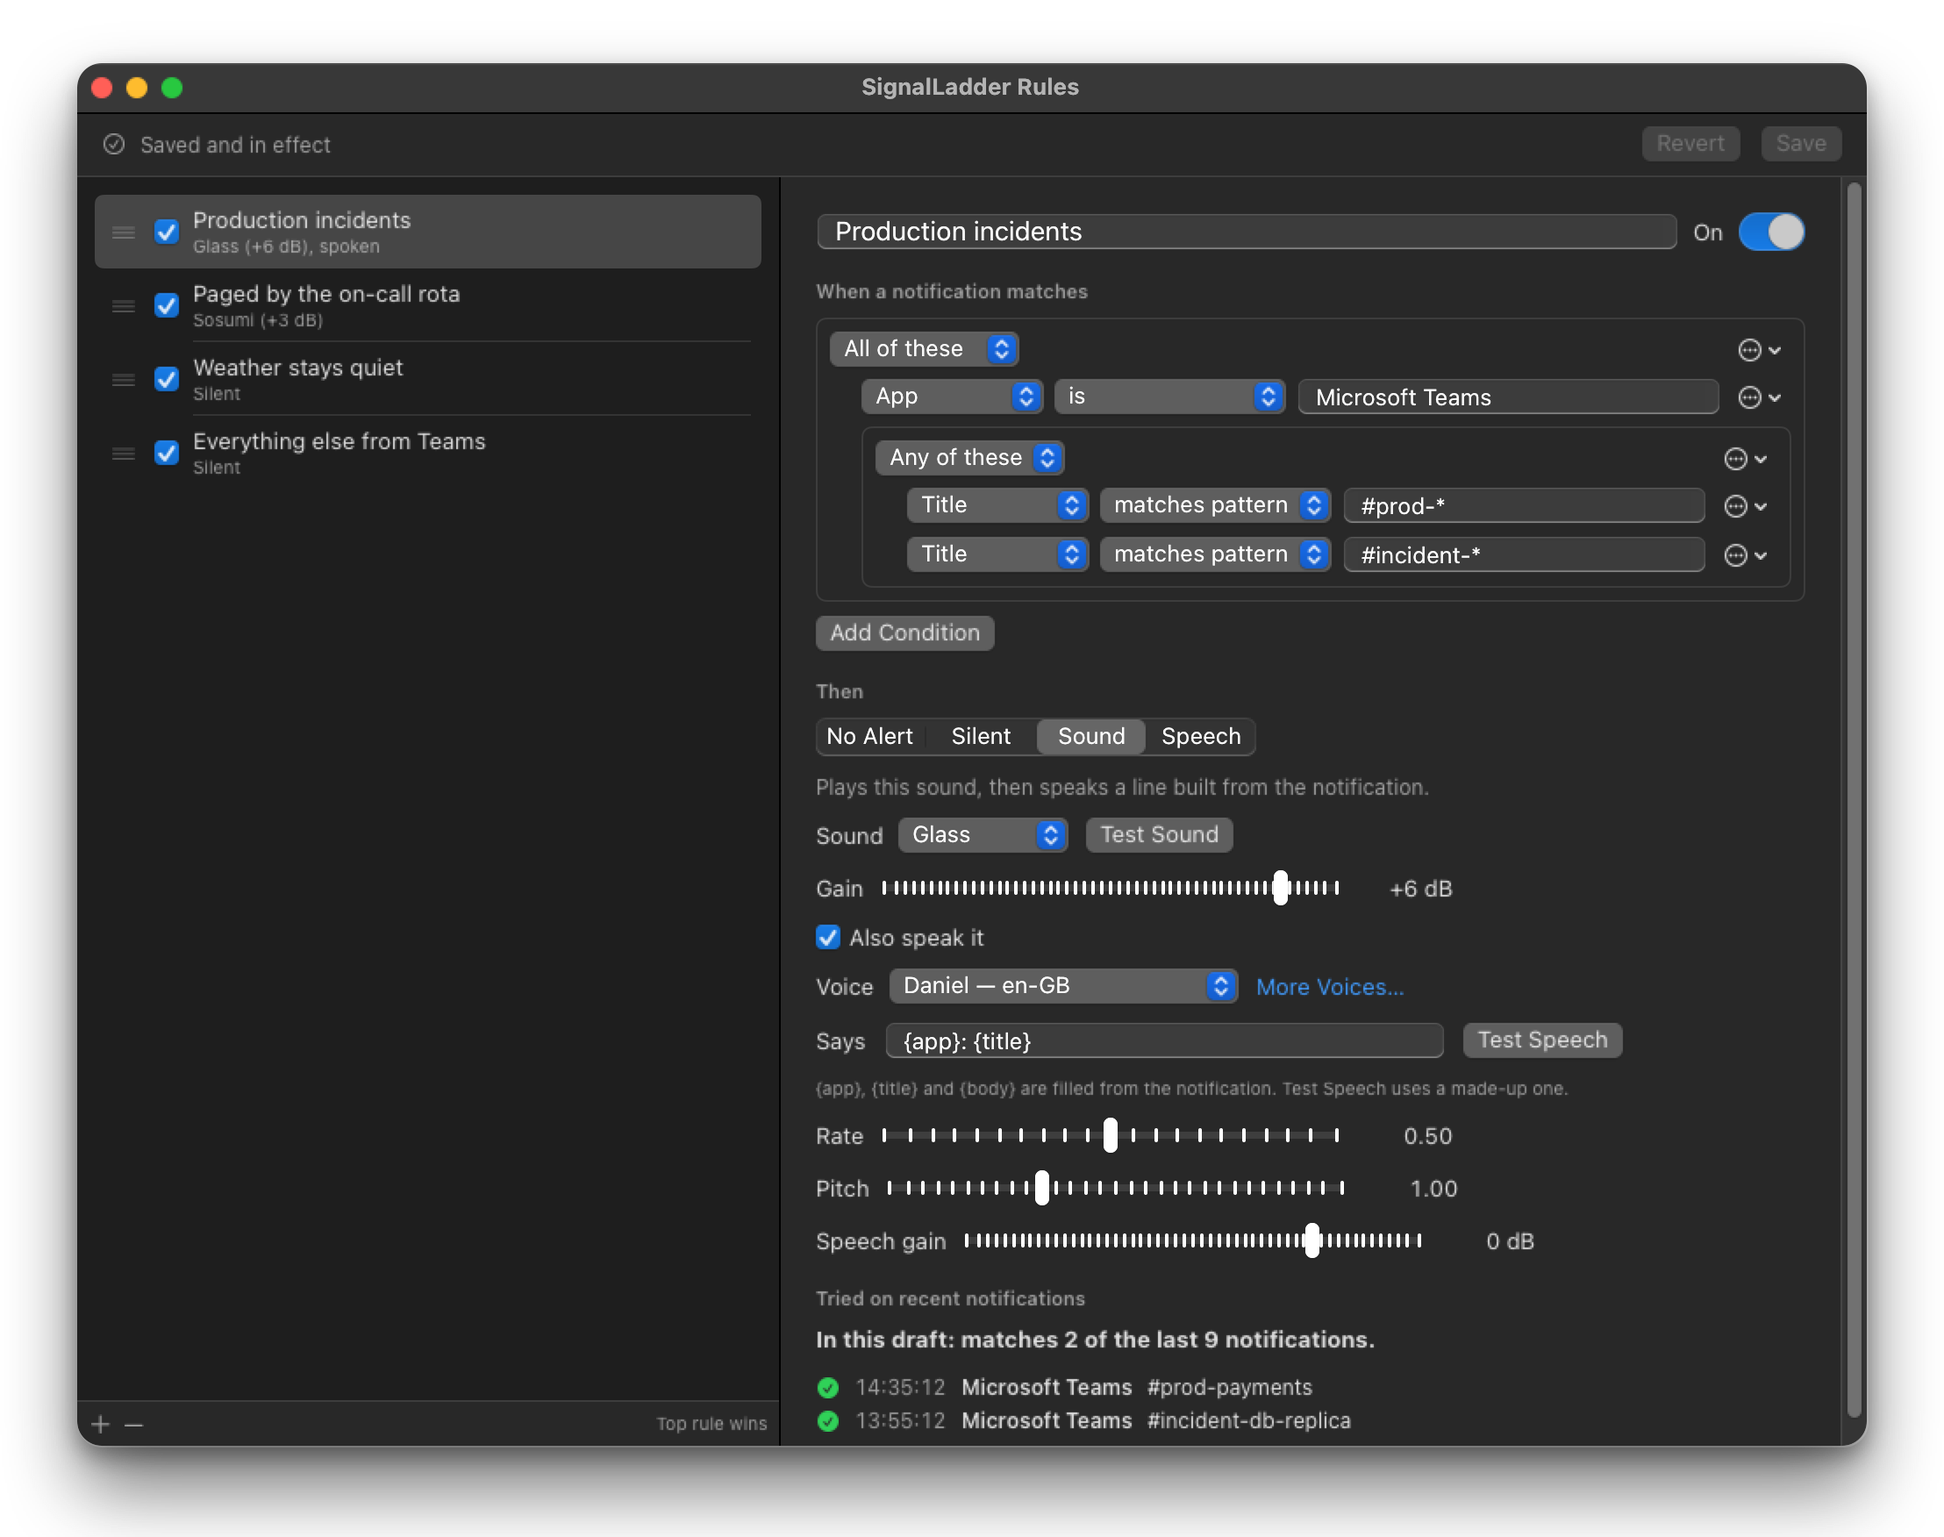
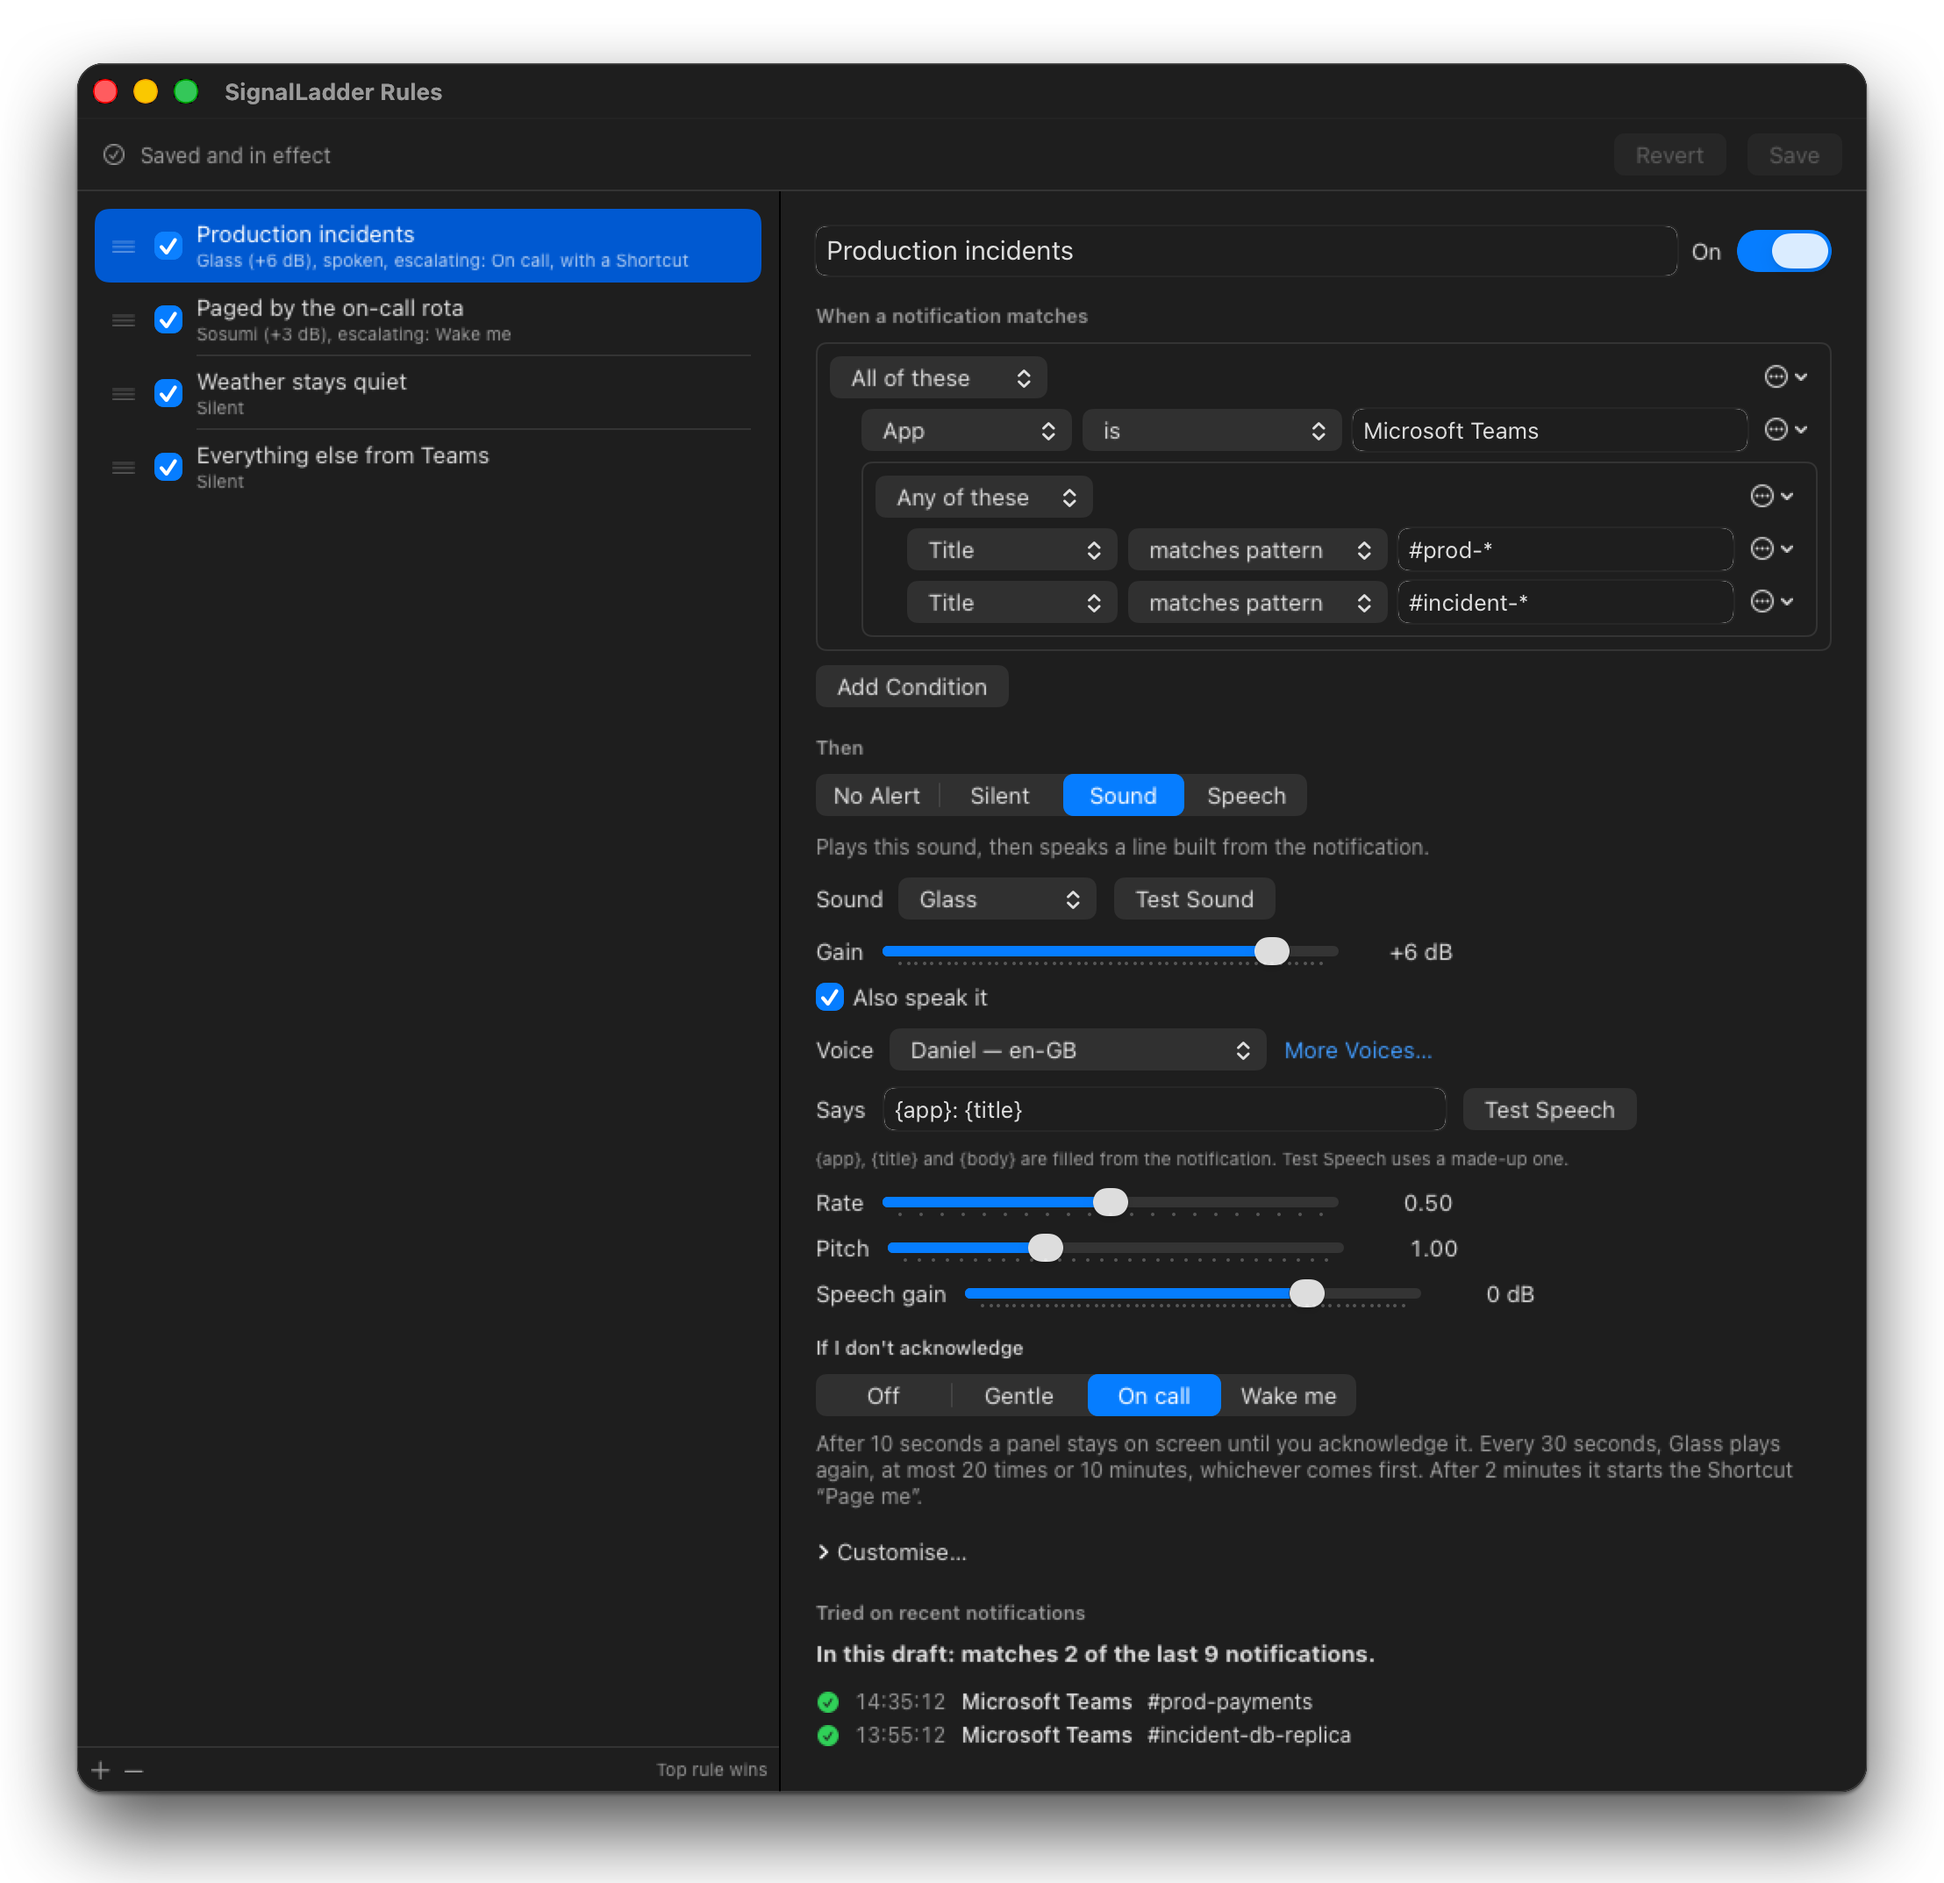
docs: the screenshots show the ladder, and the pages say it was seen in the app
The rule editor's screenshot and the README's hero image predated the
ladder editor. Both are retaken:

- The rule editor screenshot shows the demo "Production incidents" rule
  with an On call ladder that ends with the Shortcut "Page me", the
  sentence that says what it does, and the dry run.
- The hero's editor window shows "Paged by the on-call rota" with a
  Wake me ladder, whose sentence now says it keeps sounding and keeps
  the Mac awake until acknowledged. Only that window is replaced, at
  its old size and place: the menu and the Inspector beside it are as
  they were, and the Inspector predates ladders, so its rows show no
  escalation line.

Each is the app's own rule editor views, built from the sources on main
and drawn as an active window, light and dark, with the same demo rules
and made-up notifications as before. No real rules or notifications are
in them. The window title now sits beside the window buttons, which is
where macOS 26.7.1 lays it out for this app.

The ladder editor has now been opened in SignalLadder itself, so the
pages that said the app had not been run with it say it has been seen
there, and that its live checks are still to do.

Changed region(s): [[0.0311, 0.0308, 0.9653, 0.9863], [0.7473, 0.5856, 0.8407, 0.6164], [0.685, 0.4315, 0.7162, 0.4623]]

diff --git a/README.md b/README.md
@@ -29,7 +29,7 @@
 
 <picture>
   <source media="(prefers-color-scheme: dark)" srcset="docs/assets/hero-dark.png">
-  <img src="docs/assets/hero.png" alt="The SignalLadder rule editor showing a rule for production incidents that plays Glass and speaks, the menu-bar menu reporting that capture is working and the last match, and the Inspector listing recent notifications with what each one set off">
+  <img src="docs/assets/hero.png" alt="The SignalLadder rule editor showing a rule for on-call pages that plays Sosumi and, if nobody acknowledges, climbs a Wake me ladder, the menu-bar menu reporting that capture is working and the last match, and the Inspector listing recent notifications with what each one set off">
 </picture>
 
 > [!NOTE]
@@ -137,7 +137,7 @@ flowchart LR
     <td colspan="2">
       <a href="docs/assets/screenshots/rule-editor.png"><picture>
         <source media="(prefers-color-scheme: dark)" srcset="docs/assets/screenshots/rule-editor-dark.png">
-        <img src="docs/assets/screenshots/rule-editor.png" alt="The rule editor with a rule selected, showing its conditions, a Glass sound at +6 dB followed by speech, and the notifications it matches">
+        <img src="docs/assets/screenshots/rule-editor.png" alt="The rule editor with a rule selected, showing its conditions, a Glass sound at +6 dB followed by speech, an On call ladder that ends with a Shortcut, and the notifications it matches">
       </picture></a>
     </td>
   </tr>
@@ -228,7 +228,7 @@ SignalLadder is honest about its limits, because an on-call tool that overstates
 - **Health can be up to about 30 minutes old.** If capture stops between self-tests, the menu still shows the last success until the next test runs. That is why it always says how long ago the last one was.
 - **Notification Centre's list has only been checked on macOS 26.7.** There, opening it does not sound old notifications again. But a notification that arrives at the very moment you open it is taken for an old one, and may not sound. On other versions, including macOS 14 and 15, the list may be built differently, and old notifications could sound again when you open it.
 - **It can't check that you muted the source app.** macOS doesn't let other apps read notification settings, so the walkthrough records your word and says so.
-- **The ladder editor has not been run in the app yet.** Its controls were drawn and driven in a test program outside the app, and what they decide and say is tested, but SignalLadder itself has not been run with them. Until it has, read what the editor writes in `rules.json`. See [In the rule editor](docs/rules-format.md#in-the-rule-editor).
+- **The ladder editor has been seen in the app, but its live checks are not done.** It has been opened in SignalLadder itself and showed what it should, and what its controls decide and say is tested. The live checks that use each control, run a real Shortcut from it and follow a ladder it wrote to the end are still to do. Until then, read what the editor writes in `rules.json`. See [In the rule editor](docs/rules-format.md#in-the-rule-editor).
 - **A long sleep ends an escalation.** If the Mac sleeps for more than five minutes while an alert is escalating, SignalLadder marks it _missed while asleep_ when the Mac wakes, instead of sounding alarms that are hours old. It stays on the menu, and on the panel if the panel had appeared, until you acknowledge it. After a shorter sleep the ladder resumes. SignalLadder works out how long the Mac slept from the clock and the Mac's awake time. Apple documents that awake time stops during sleep, but this has not yet been measured on a Mac that sleeps.
 - **The acknowledge shortcut is fixed.** ⌃⌥⌘A acknowledges everything listed, and does nothing when nothing is. There is no setting to change it. If SignalLadder cannot register it, it logs that and carries on, and the menu and the panel's buttons still work.
 - **It cannot see what a Shortcut does.** A Shortcut counts as started if it is still running a second after it launches, or if it exits successfully, and as failed otherwise. SignalLadder never waits for one and never shows or logs what it prints. Whether it then reaches your phone is up to the Shortcut.
@@ -248,7 +248,7 @@ More symptoms and fixes are in **[docs/troubleshooting.md](docs/troubleshooting.
 - [x] Acknowledging from the panel, the menu or a global shortcut
 
 **Next: 1.0** (planned)
-- [x] Setting up an escalation in the rule editor, from a preset or step by step, instead of writing it in `rules.json` by hand. Built and tested, but not yet run in the app
+- [x] Setting up an escalation in the rule editor, from a preset or step by step, instead of writing it in `rules.json` by hand. Built and tested, and seen in the app; its live checks are still to do
 - [ ] An on-call switch, with a faster self-test while you are on call
 - [ ] Snooze for a meeting, which cannot quietly swallow a real page
 - [ ] One escalation for a burst of matches, instead of one per match

diff --git a/docs/troubleshooting.md b/docs/troubleshooting.md
@@ -309,7 +309,7 @@ A rule with an escalation starts its ladder when it matches, straight after its 
 5. **A repeat never comes.** The first repeat comes one `intervalSeconds` after the match, not at once. A `maxDurationSeconds` shorter than that interval allows no repeat at all, and the escalation is listed as no longer repeating from the start.
 6. **You edited the file and did not reload it.** Choose **Reload Rules** (⌘R).
 
-The rule editor shows the ladder under the rule's first alert, in **If I don't acknowledge**, with a sentence that says in words what it will do. Read that sentence first, since it describes the ladder as the editor holds it. The controls were drawn and driven in a test program, and the app has not yet been run with them, so if the sentence does not match what you set, please report it. A ladder's problems are listed under the rule, as any rule's are. A ladder it cannot read at all, such as a misspelt key, makes the editor open read-only: see [The menu shows a warning about rules](#the-menu-shows-a-warning-about-rules).
+The rule editor shows the ladder under the rule's first alert, in **If I don't acknowledge**, with a sentence that says in words what it will do. Read that sentence first, since it describes the ladder as the editor holds it. The controls were drawn and driven in a test program and have since been seen in the app, but their live checks are still to do, so if the sentence does not match what you set, please report it. A ladder's problems are listed under the rule, as any rule's are. A ladder it cannot read at all, such as a misspelt key, makes the editor open read-only: see [The menu shows a warning about rules](#the-menu-shows-a-warning-about-rules).
 
 ### A Shortcut did not run
 

diff --git a/docs/rules-format.md b/docs/rules-format.md
@@ -332,7 +332,7 @@ A ladder's problems are listed under the rule, as for any other, in the loader's
 
 **A file that declares too old a version.** If `rules.json` says `"version": 3` and holds a ladder, the loader refuses that rule, and the editor says the same under it, in the loader's words. The same holds for an alert in a `"version": 1` file and for speech in a `"version": 2` file. **Save** is available although you changed nothing, because without it the rule could not be fixed from here. The bar reads _rules.json declares version 3 but holds a rule that needs 4, so that rule is not running — Save writes version 4 and puts it into effect_. For a rule that is switched on, and for a rule below it, the dry-run says _Not in effect until you save_. Once the rule is edited, or the file saved, the problem goes with its cause.
 
-What the controls decide and say is tested. The controls themselves were drawn and driven in a test program outside the app, and SignalLadder itself has not yet been run with them, so read what they write in `rules.json` the first time you use them.
+What the controls decide and say is tested. The controls were drawn and driven in a test program outside the app, and have since been seen in SignalLadder itself, but their live checks are still to do, so read what they write in `rules.json` the first time you use them.
 
 ## Muting the source app
 

diff --git a/docs/getting-started.md b/docs/getting-started.md
@@ -198,7 +198,7 @@ Some things to keep in mind as you read it:
 
 ## Make your first rule
 
-![The rule editor with a rule selected, showing its condition, its alert and the dry-run](assets/screenshots/rule-editor.png)
+![The rule editor with a rule selected, showing its conditions, its alert, its ladder and the dry-run](assets/screenshots/rule-editor.png)
 
 1. **Start from a real notification.** In the Inspector, find one you would want to hear about and choose **Make a Rule from This…** on its row. The editor, titled SignalLadder Rules, opens with a new rule named “New rule for Microsoft Teams” (or whichever app it came from). Its condition is App is Microsoft Teams, it is **switched off**, and it has **no alert**. It is placed just above the first rule that would already take that notification, or last if none would. You can also open the editor from the menu with **Edit Rules…** (⌘E) and add a rule with the **+** button.
 

diff --git a/docs/architecture.md b/docs/architecture.md
@@ -274,7 +274,7 @@ While anything is listed, the status menu opens with an Acknowledge item ("Ackno
 
 ### What is not built
 
-`Scripts/verify-live.sh` has no `--escalation` check. Snooze and an on-call mode are still ideas. The ladder editor's views and model, in the app target, were drawn and driven in a test program built from copies of their sources, with the Shortcuts list and the launcher faked, so no Shortcut was run and no sound played. The app itself has not been run with them.
+`Scripts/verify-live.sh` has no `--escalation` check. Snooze and an on-call mode are still ideas. The ladder editor's views and model, in the app target, were drawn and driven in a test program built from copies of their sources, with the Shortcuts list and the launcher faked, so no Shortcut was run and no sound played. They have since been seen in the app itself, and their live checks are still to do.
 
 ## Knowing it still works
 

diff --git a/docs/privacy.md b/docs/privacy.md
@@ -203,6 +203,6 @@ One more case: if SignalLadder crashed while a Shortcut was running, that Shortc
 
 ## Future changes
 
-Escalation is built, and so is its editor, and this page describes both above. The editor's ladder controls were drawn and driven in a test program, and the app has not yet been run with them. When a change alters what SignalLadder stores, logs, sends or asks for, this page changes with it.
+Escalation is built, and so is its editor, and this page describes both above. The editor's ladder controls were drawn and driven in a test program, and have since been seen in the app itself; their live checks are still to do. When a change alters what SignalLadder stores, logs, sends or asks for, this page changes with it.
 
 If SignalLadder does something this page says it does not, please report it privately. See [SECURITY.md](../SECURITY.md).
